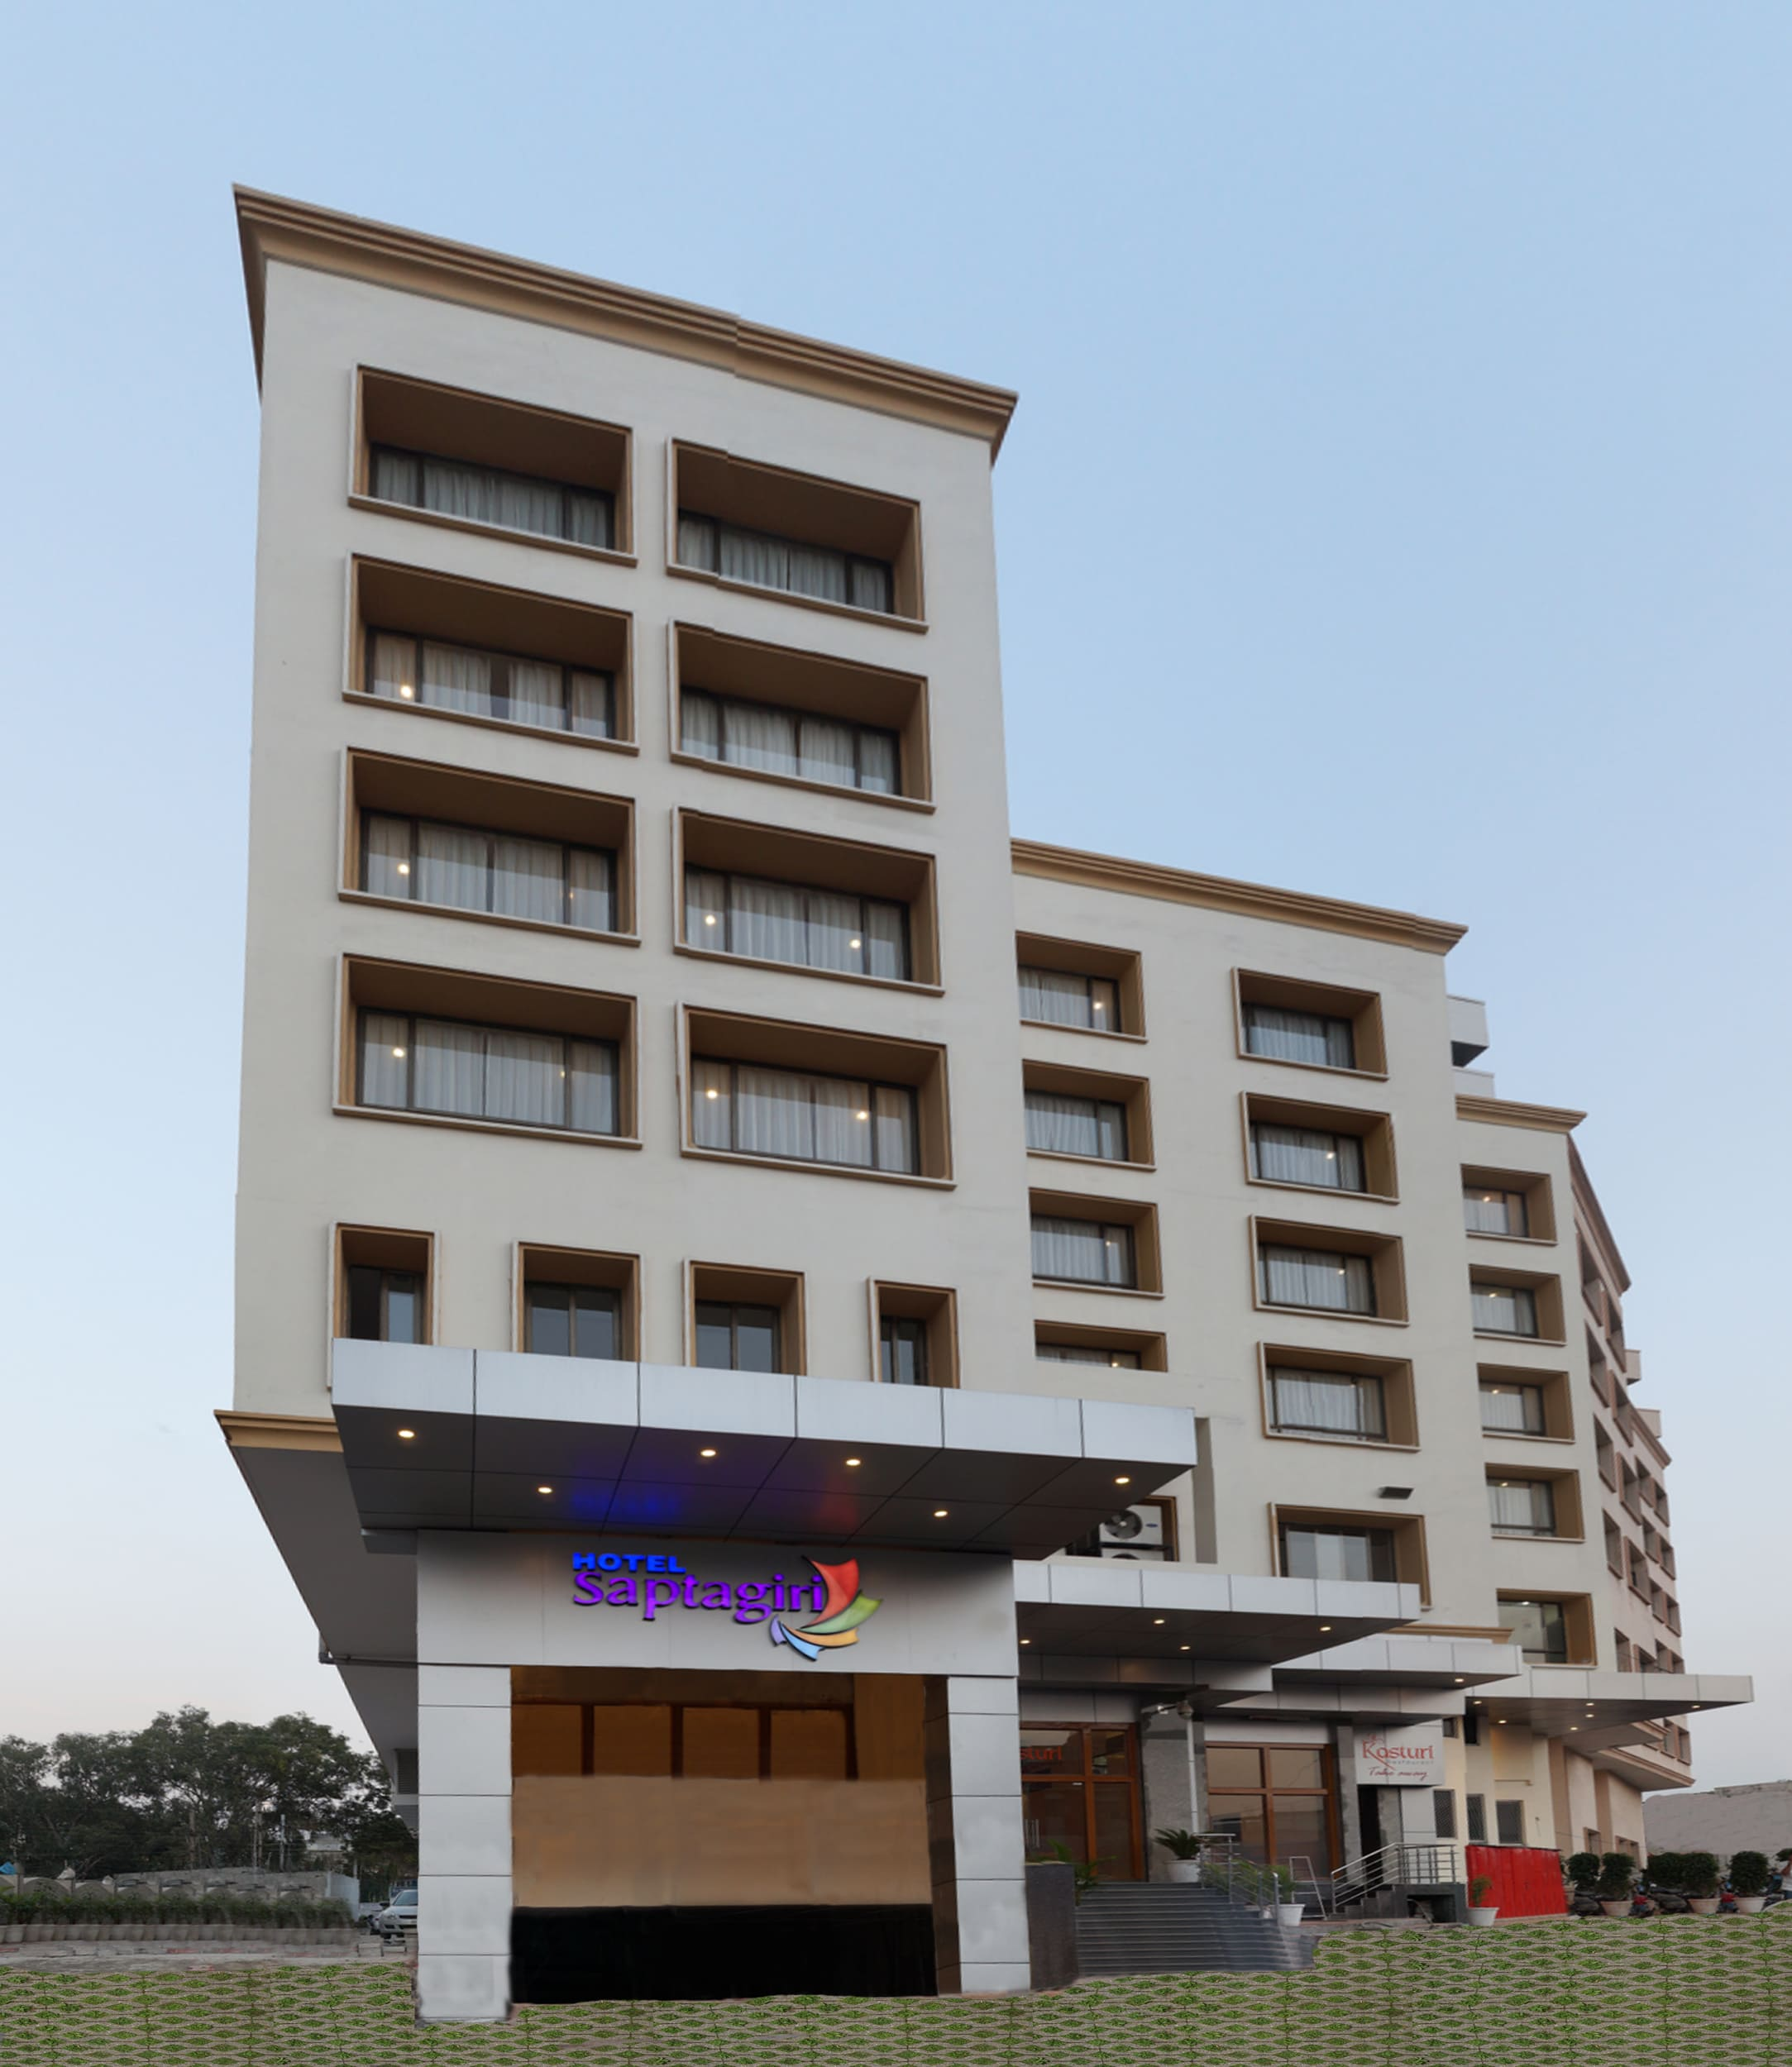
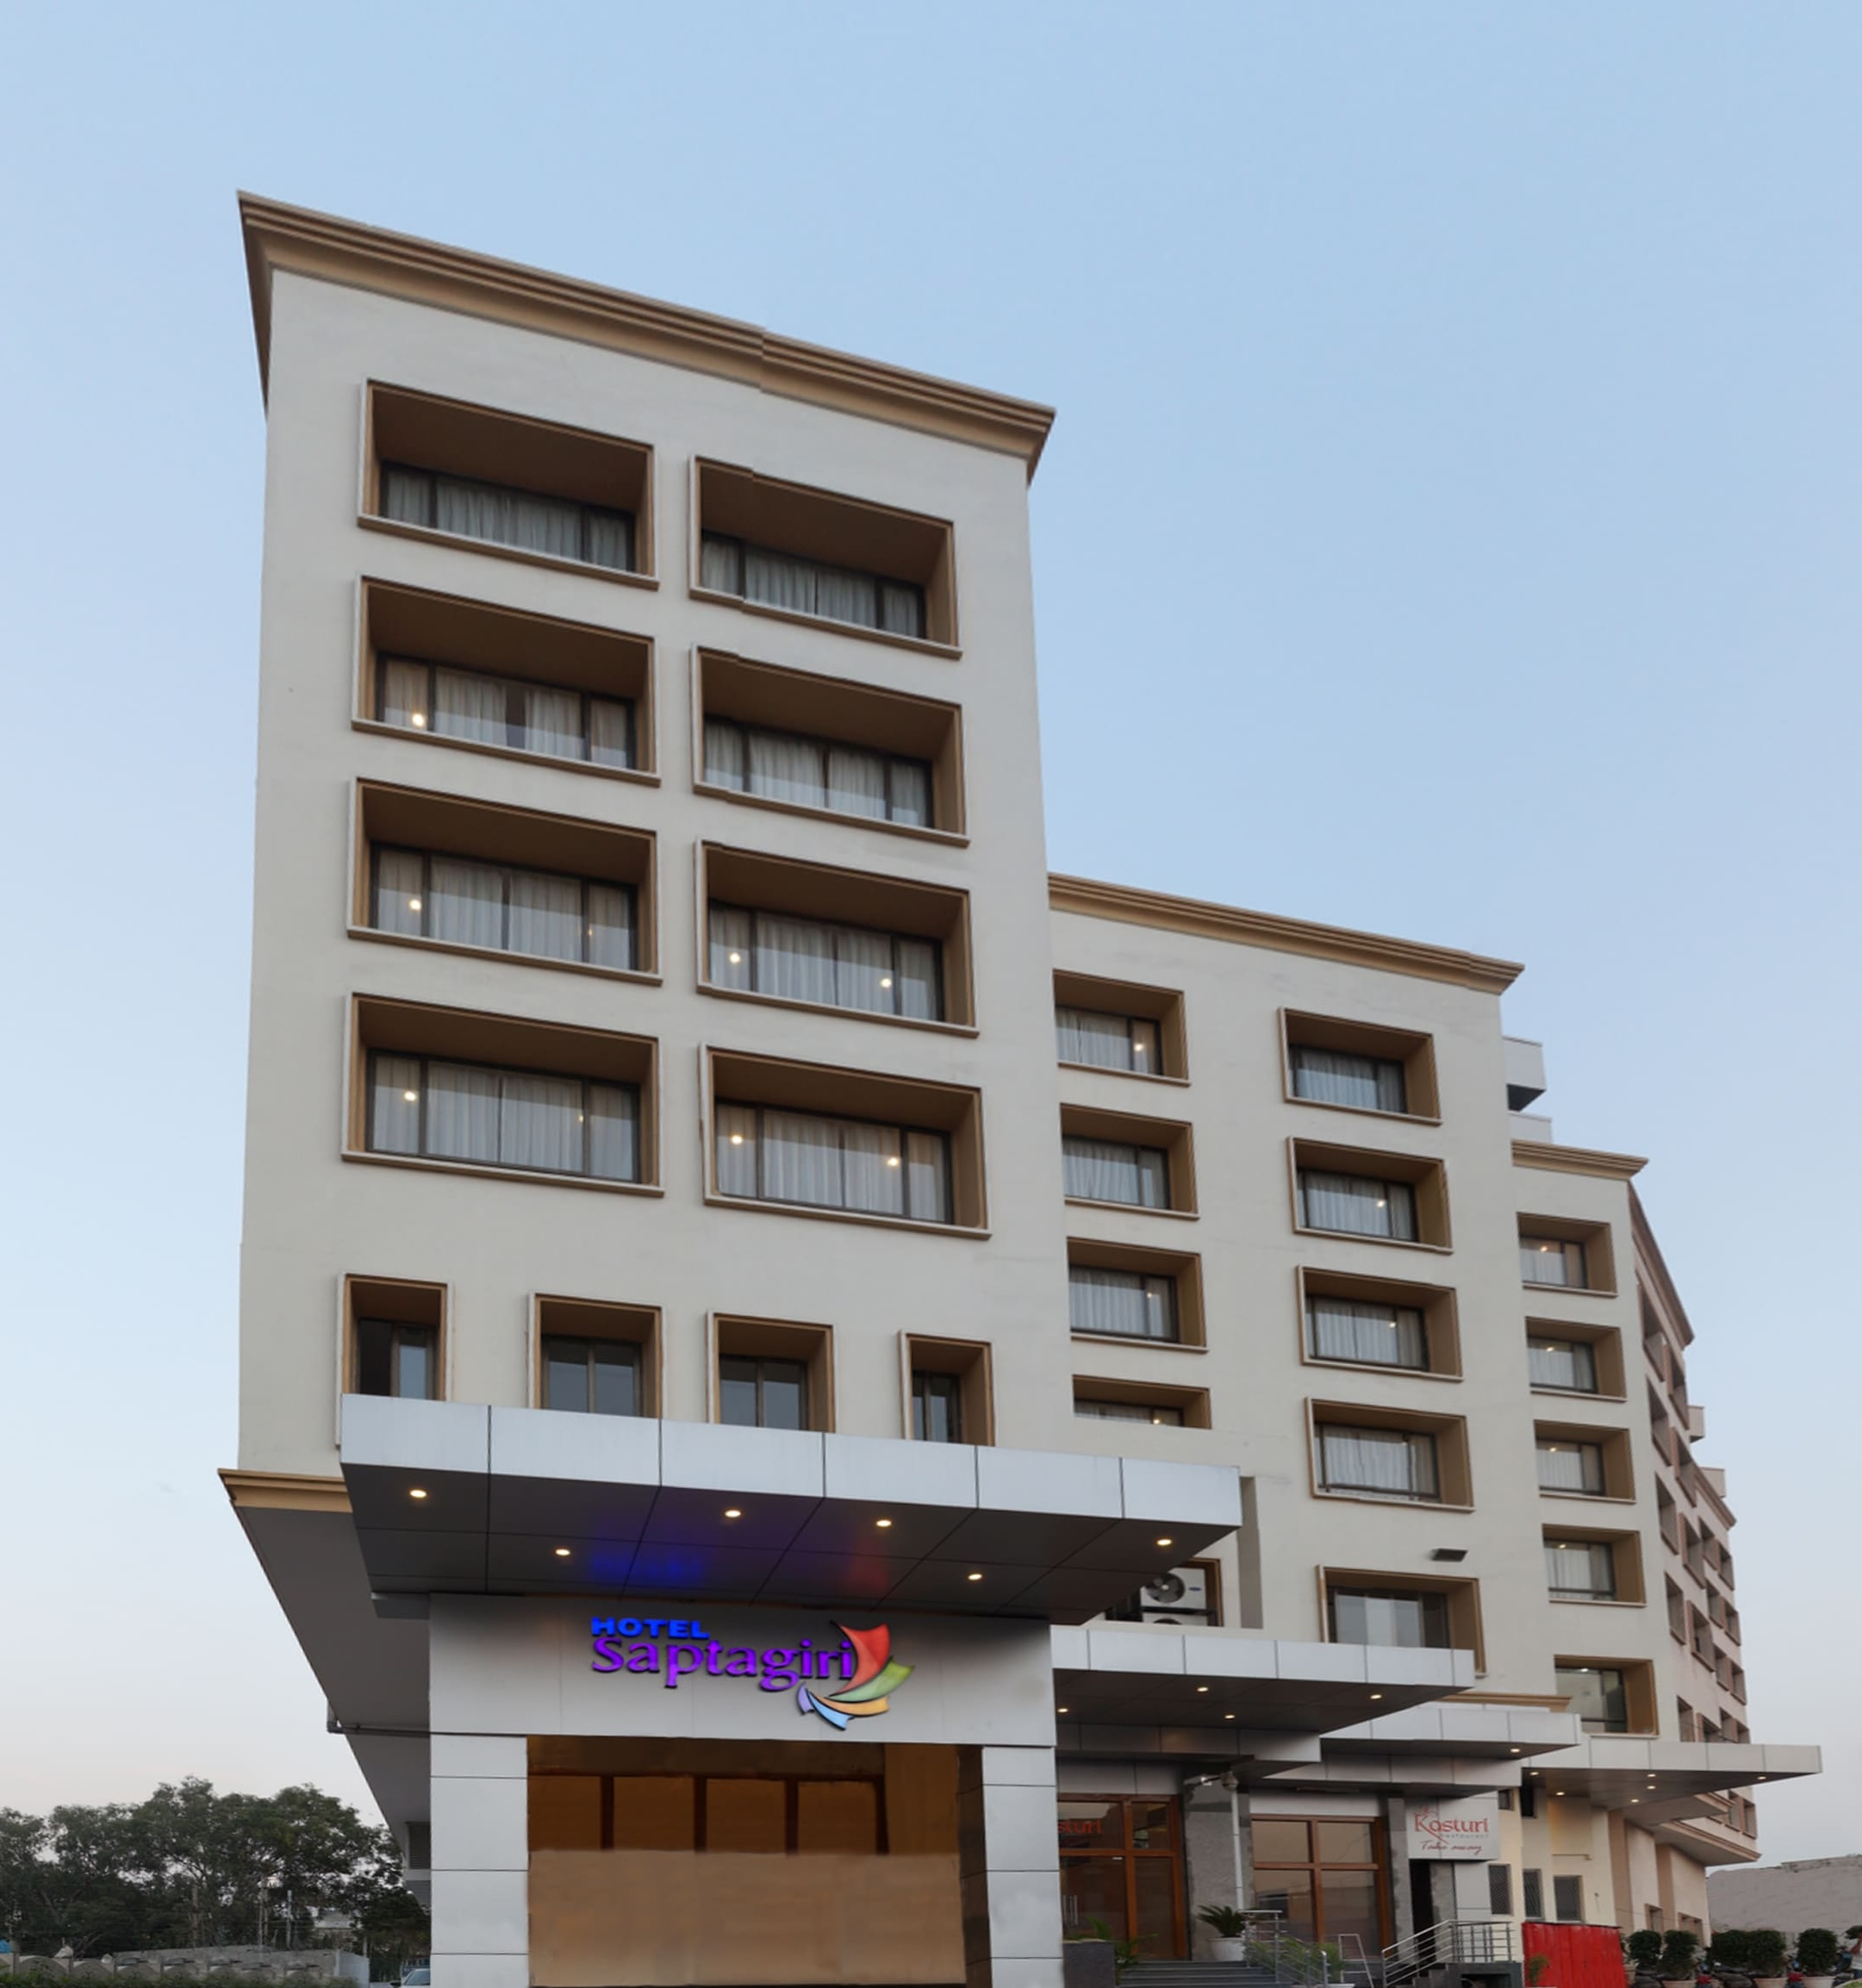
Update room descriptions and details across multiple files for consistency and clarity. Adjusted text for standard and deluxe rooms to reflect bed options accurately. Added a footer note in the rooms table regarding complimentary breakfast. Removed unused CSS classes to clean up styles.

diff --git a/assets/css/output.css b/assets/css/output.css
@@ -342,9 +342,6 @@
   .mt-12 {
     margin-top: calc(var(--spacing) * 12);
   }
-  .mb-0\.5 {
-    margin-bottom: calc(var(--spacing) * 0.5);
-  }
   .mb-1\.5 {
     margin-bottom: calc(var(--spacing) * 1.5);
   }
@@ -1054,11 +1051,6 @@
       @media (hover: hover) {
         color: var(--color-white);
       }
-    }
-  }
-  .sm\:col-span-2 {
-    @media (width >= 40rem) {
-      grid-column: span 2 / span 2;
     }
   }
   .sm\:row-span-2 {

diff --git a/rooms.php b/rooms.php
@@ -99,7 +99,13 @@ require __DIR__ . '/includes/header.php';
                   <td>—</td>
                   <td>1,000</td>
                 </tr>
+
               </tbody>
+              <tfoot>
+                <tr>
+                  <td colspan="3" class="text-center">Tariff includes complimentary breakfast (CP plan).</td>
+                </tr>
+              </tfoot>
             </table>
           </div>
         </div>
@@ -154,7 +160,7 @@ require __DIR__ . '/includes/header.php';
               <div class="p-6">
                 <span class="text-xs font-semibold uppercase tracking-[0.2em] text-gold">270 sq ft</span>
                 <h3 class="mt-2 font-display text-2xl text-charcoal">Standard Room</h3>
-                <p class="mt-2 text-sm leading-relaxed text-charcoal-muted">Bright standard rooms with twin queen beds and all essential comforts for a restful stay.</p>
+                <p class="mt-2 text-sm leading-relaxed text-charcoal-muted">Bright standard rooms with twin or queen beds and all essential comforts for a restful stay.</p>
                 <p class="mt-4 font-display text-xl text-accent">₹ 3,200 – 3,800 <span class="font-body text-sm text-charcoal-muted">/ night</span></p>
                 <span class="mt-4 inline-flex items-center gap-1 text-sm font-semibold uppercase tracking-wider text-accent group-hover:text-accent-dark transition-colors">
                   View Details

diff --git a/room-standard.php b/room-standard.php
@@ -1,6 +1,6 @@
 <?php
 $pageTitle = 'Standard Room | Hotel Saptagiri';
-$pageDescription = 'Standard rooms at Hotel Saptagiri — 270 sq ft refurbished rooms with twin queen beds and modern amenities in Secunderabad.';
+$pageDescription = 'Standard rooms at Hotel Saptagiri — 270 sq ft rooms with twin queen beds and modern amenities in Secunderabad.';
 $pageScripts = ['lightbox.js', 'room-gallery.js'];
 require __DIR__ . '/includes/head.php';
 require __DIR__ . '/includes/header.php';
@@ -17,7 +17,7 @@ require __DIR__ . '/includes/header.php';
 
           <h1 class="room-detail__title">Standard Room</h1>
           <p class="room-detail__description">
-            Relax in our standard rooms which are spacious and bright measuring 270 sft and totally refurbished. The room comes with twin queen size beds, customized furniture, gel-infused pillow top mattresses topped with luxurious duvets, flat screen TV, mini-fridge, executive desk, wireless internet, all beautifully decorated with climate control at your fingertips and a modern, fully equipped bathroom.
+            Relax in our standard rooms which are spacious and bright measuring 270 sft. The room comes with twin or queen size beds, customized furniture, gel-infused pillow top mattresses topped with luxurious duvets, flat screen TV, mini-fridge, executive desk, wireless internet, all beautifully decorated with climate control at your fingertips and a modern, fully equipped bathroom.
           </p>
 
           <hr class="room-detail__divider" />
@@ -58,7 +58,7 @@ require __DIR__ . '/includes/header.php';
           </div>
           <div class="room-detail__thumbs room-detail__thumbs--two" role="tablist" aria-label="Standard room photos">
             <button type="button" class="room-detail__thumb is-active" data-room-thumb aria-selected="true" aria-label="Standard room view 1">
-              <img src="assets/images/standard-room/hotel-spatagiri-secunderabad-railway-station.jpg" alt="Standard room at Hotel Saptagiri" />
+              <img src="assets/images/rooms/standard.jpg" alt="Standard room at Hotel Saptagiri" />
             </button>
             <button type="button" class="room-detail__thumb" data-room-thumb aria-selected="false" aria-label="Standard room view 2">
               <img src="assets/images/standard-room/budget-room-secunderabad.jpg" alt="Standard room beds at Hotel Saptagiri" />

diff --git a/index.php b/index.php
@@ -221,10 +221,10 @@ require __DIR__ . '/includes/header.php';
           </div>
           <div class="p-6">
             <h3 class="font-display text-2xl text-charcoal">Standard Room</h3>
-            <p class="mt-2 text-sm leading-relaxed text-charcoal-muted">270 sq ft rooms with twin queen beds and all essential comforts.</p>
+            <p class="mt-2 text-sm leading-relaxed text-charcoal-muted">270 sq ft rooms with twin or queen size beds and all essential comforts.</p>
             <div class="mt-4 flex flex-wrap gap-2">
               <span class="rounded-full bg-beige px-3 py-1 text-xs text-charcoal-muted">270 sq ft</span>
-              <span class="rounded-full bg-beige px-3 py-1 text-xs text-charcoal-muted">Twin Queen</span>
+              <span class="rounded-full bg-beige px-3 py-1 text-xs text-charcoal-muted">Twin or Queen Size Bed</span>
               <span class="rounded-full bg-beige px-3 py-1 text-xs text-charcoal-muted">Wi-Fi</span>
             </div>
             <a href="room-standard.php" class="mt-5 inline-flex items-center gap-1 text-sm font-semibold uppercase tracking-wider text-accent hover:text-accent-dark transition-colors">

diff --git a/room-deluxe.php b/room-deluxe.php
@@ -1,6 +1,6 @@
 <?php
 $pageTitle = 'Deluxe | Hotel Saptagiri';
-$pageDescription = 'Deluxe rooms at Hotel Saptagiri — 390 sq ft refurbished rooms with king bed, mini-fridge, and modern amenities in Secunderabad.';
+$pageDescription = 'Deluxe rooms at Hotel Saptagiri — 390 sq ft rooms with king bed, mini-fridge, and modern amenities in Secunderabad.';
 $pageScripts = ['lightbox.js', 'room-gallery.js'];
 require __DIR__ . '/includes/head.php';
 require __DIR__ . '/includes/header.php';
@@ -17,7 +17,7 @@ require __DIR__ . '/includes/header.php';
 
           <h1 class="room-detail__title">Deluxe</h1>
           <p class="room-detail__description">
-            Relax in our deluxe rooms which are spacious and bright measuring 390 sft and totally refurbished. The room comes with a king size bed, customized furniture, gel-infused pillow top mattresses topped with luxurious duvets, cozy couches, a magnificent hallway-dressing area, flat screen TV, mini-fridge, executive desk, wireless internet, all beautifully decorated with climate control at your fingertips and a modern, fully equipped bathroom. The rooms balance elegance and comfort to create a sophisticated and yet, understated luxury. Stay connected with your world without having to step out from the comfort of your room.
+            Relax in our deluxe rooms which are spacious and bright measuring 390 sft. The room comes with a king size bed, customized furniture, gel-infused pillow top mattresses topped with luxurious duvets, cozy couches, a magnificent hallway-dressing area, flat screen TV, mini-fridge, executive desk, wireless internet, all beautifully decorated with climate control at your fingertips and a modern, fully equipped bathroom. The rooms balance elegance and comfort to create a sophisticated and yet, understated luxury. Stay connected with your world without having to step out from the comfort of your room.
           </p>
 
           <hr class="room-detail__divider" />

diff --git a/room-suite.php b/room-suite.php
@@ -17,7 +17,7 @@ require __DIR__ . '/includes/header.php';
 
           <h1 class="room-detail__title">Suite</h1>
           <p class="room-detail__description">
-            Relax in our Suite rooms which are spacious and bright measuring 500 sft and totally refurbished. The suite opens into a sitting room, with a bedroom tucked away from all attention and there is room for privacy even when your guests make themselves comfortable. The room comes with a king size bed, customized furniture, gel-infused pillow top mattresses topped with luxurious duvets, cozy couches, a magnificent hallway-dressing area, flat screen TV, mini-fridge, executive desk, wireless internet, all beautifully decorated with climate control at your fingertips and a modern, fully equipped bathroom with a bath tub. The room comes with a stylish décor and inviting interiors making it an appealing place to stay.
+            Relax in our Suite rooms which are spacious and bright measuring 500 sft. The suite opens into a sitting room, with a bedroom tucked away from all attention and there is room for privacy even when your guests make themselves comfortable. The room comes with a king size bed, customized furniture, gel-infused pillow top mattresses topped with luxurious duvets, cozy couches, a magnificent hallway-dressing area, flat screen TV, mini-fridge, executive desk, wireless internet, all beautifully decorated with climate control at your fingertips and a modern, fully equipped bathroom with a bath tub. The room comes with a stylish décor and inviting interiors making it an appealing place to stay.
           </p>
 
           <hr class="room-detail__divider" />